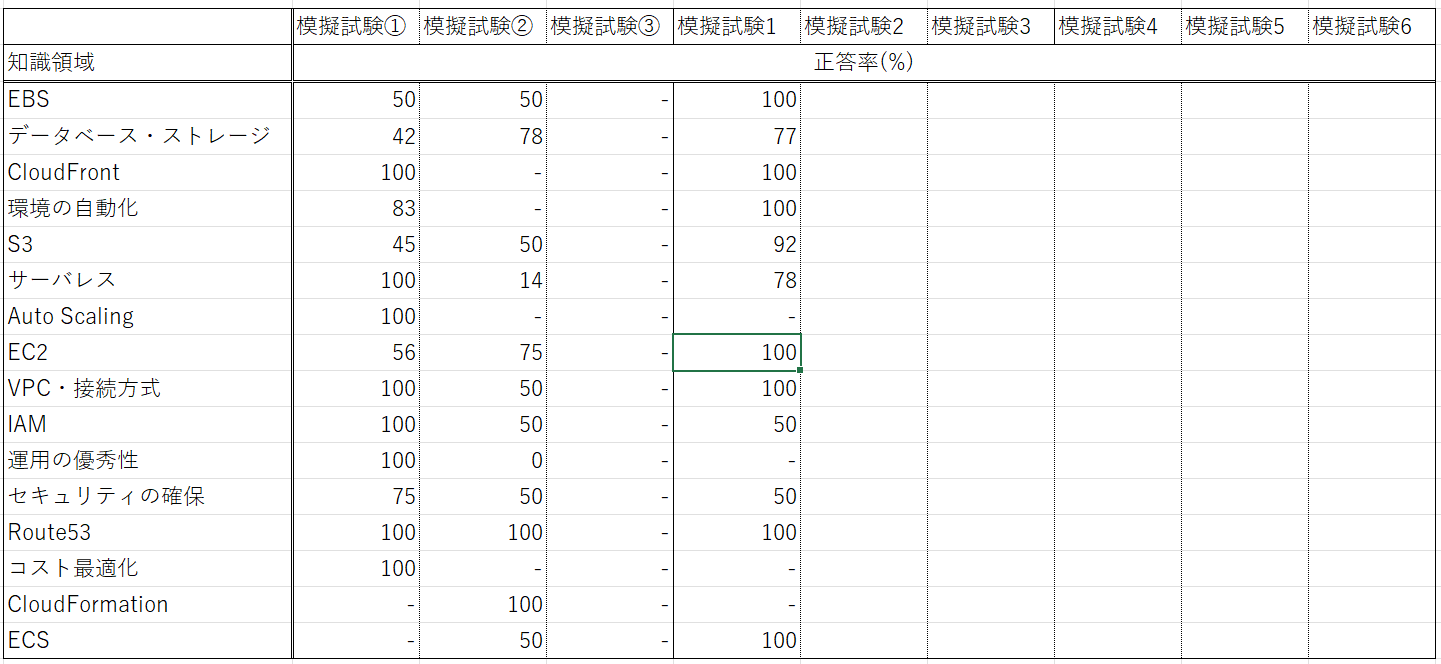
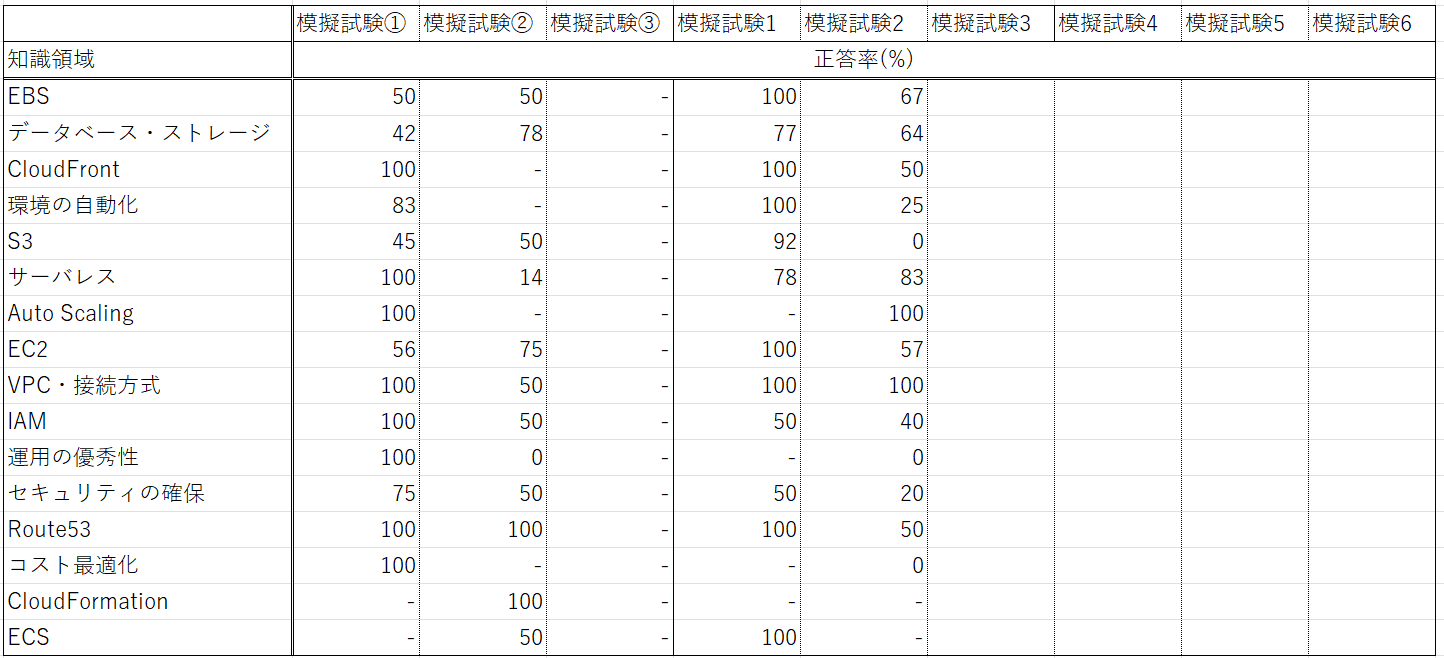
模擬試験2結果

diff --git a/模擬試験結果.md b/模擬試験結果.md
@@ -11,7 +11,7 @@
 | 模擬試験番号 | 正解数 | 正答率 | 
 | - | - | - |
 | 1 | 58/65 | 89% |
-| 2 | /65 | % |
+| 2 | 34/65 | 52% |
 | 3 | /65 | % |
 | 4 | /65 | % |
 | 5 | /65 | % |
